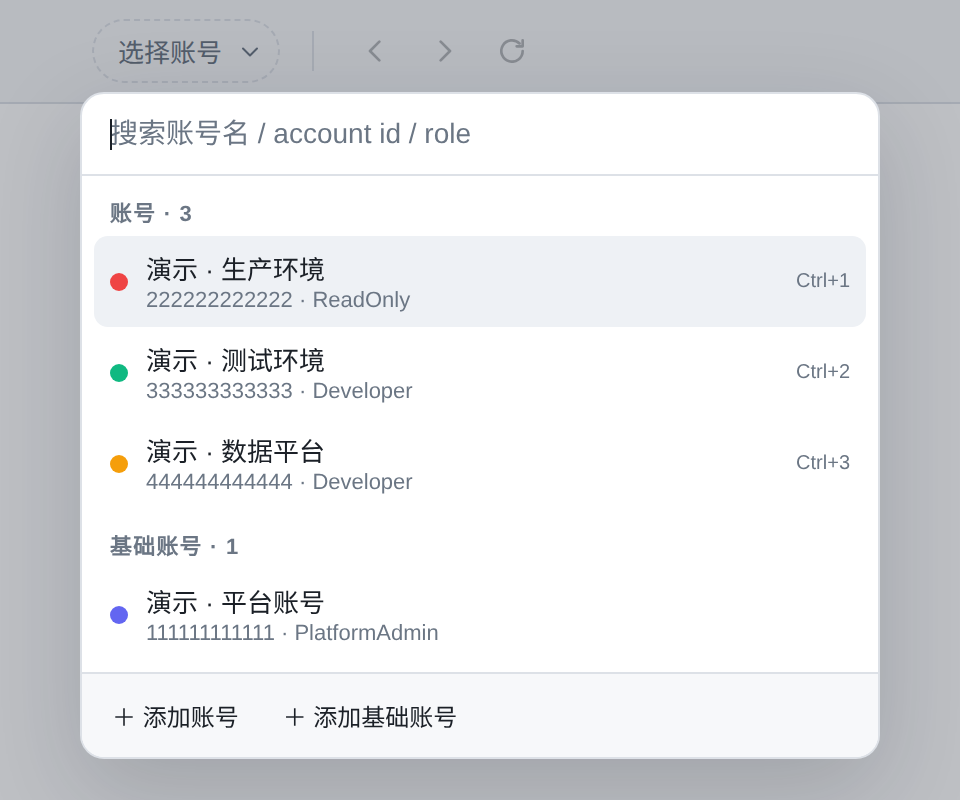
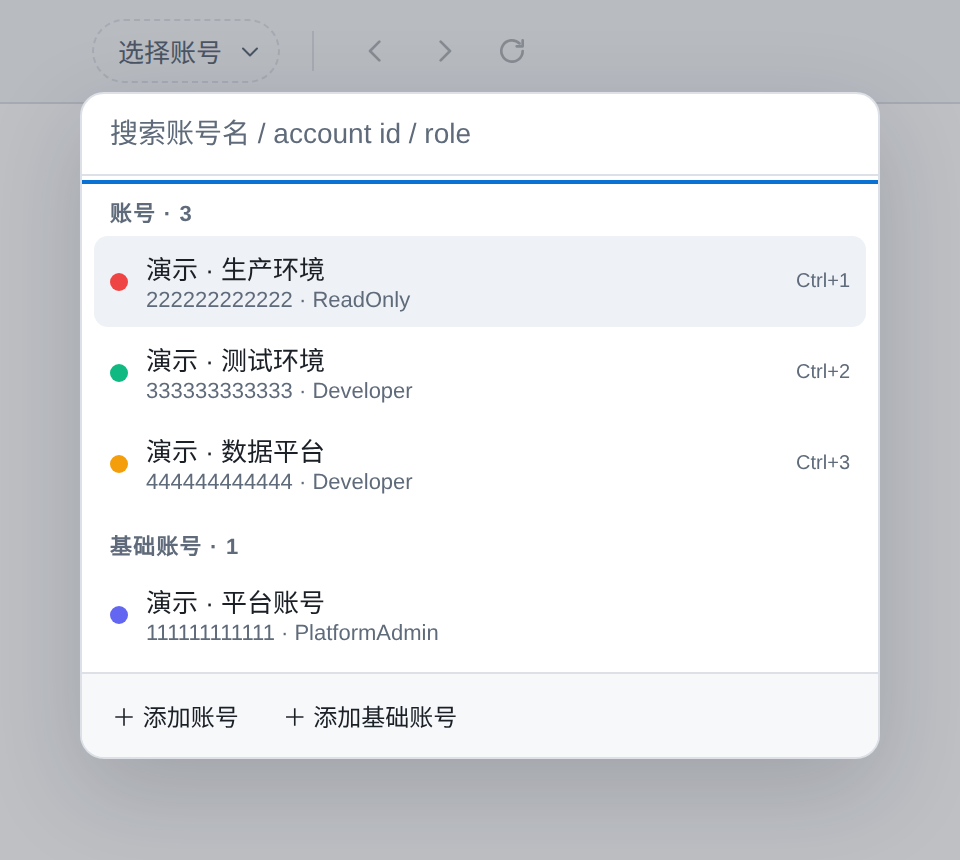
chore: open-source preparation — SECURITY/CONTRIBUTING/templates/CI, remove aws.dev from in-app domains, README refresh and screenshots

diff --git a/src/main/urls.test.ts b/src/main/urls.test.ts
@@ -1,5 +1,12 @@
 import { describe, expect, it } from 'vitest'
-import { isConsoleUrl, isSignInUrl, windowOpenAction, consoleRegion } from './urls'
+import { isConsoleUrl, isInAppUrl, isSignInUrl, windowOpenAction, consoleRegion } from './urls'
+
+describe('isInAppUrl', () => {
+  it('excludes aws.dev and its subdomains', () => {
+    expect(isInAppUrl('https://aws.dev/internal')).toBe(false)
+    expect(isInAppUrl('https://x.aws.dev/internal')).toBe(false)
+  })
+})
 
 describe('windowOpenAction', () => {
   it('keeps the URL-less auth-flow open as a real popup', () => {
@@ -15,6 +22,8 @@ describe('windowOpenAction', () => {
 
   it('sends other web URLs to the system browser', () => {
     expect(windowOpenAction('https://github.com/x')).toBe('external')
+    expect(windowOpenAction('https://aws.dev/internal')).toBe('external')
+    expect(windowOpenAction('https://x.aws.dev/internal')).toBe('external')
     // Anyone can host pages on amazonaws.com, and http is never in-app.
     expect(windowOpenAction('https://evil.s3.amazonaws.com/x')).toBe('external')
     expect(windowOpenAction('http://console.aws.amazon.com/')).toBe('external')

diff --git a/src/main/urls.ts b/src/main/urls.ts
@@ -7,8 +7,7 @@ const IN_APP_DOMAINS = [
   // Not amazonaws.com: anyone can host pages there (S3, ELB, API Gateway).
   'amazonaws.cn',
   'awsapps.com',
-  'awsstatic.com',
-  'aws.dev'
+  'awsstatic.com'
 ]
 
 export function isInAppUrl(url: string): boolean {

diff --git a/docs/DEVELOPMENT.md b/docs/DEVELOPMENT.md
@@ -17,7 +17,7 @@
 - **账号切换器** — 顶栏最左的账号按钮（颜色点 + 名称，登录 / 加载中显示 spinner）或 `⌘⇧A` 打开 `AccountSwitcher.tsx` 下拉框：搜索框自动聚焦，用 `shared/fuzzy.ts` 匹配名称 / account id / role，有查询时组内按分数排序；「账号」「基础账号」两组，每行显示颜色点、名称、`accountId · role`、`⌘1-9` 提示（规则同快捷键：优先跳转账号，没有时是基础账号），悬停出 ✎ / ✕。底部是「＋ 添加账号」「＋ 添加基础账号」（走原来的 `AccountModal`）和当前账号的「重新登录」。下拉框和 ⌘K 面板互斥。没有账号时欢迎页按步骤引导添加；有账号但没选时欢迎页有「选择账号」按钮。
 - **底部最近访问条** — 固定项和最近访问在 console 下方的一行 30px 条里（`ResourceList.tsx` 的 `ResourceStrip`）：固定项（★）在前，细分隔线后是最近访问（新的在前）。每个条目是服务缩写 + 名称（过长截断）+ 账号颜色点，悬停提示完整名称 / 账号 / region / 类型 / 时间；悬停时 ★ / ✕ 按钮盖在条目尾部，不改变尺寸。条目横向滚动：滚动条隐藏，竖向滚轮转成横向，触控板横滑原生可用，两端有渐隐遮罩，溢出时显示左右翻页按钮。最前面的 ▾ 按钮或 `⌘J` 隐藏整条（存 `localStorage` 的 `recentsHidden`），隐藏后用顶栏的时钟按钮或 `⌘J` 恢复。没有记录时条里只剩 ▾ 按钮。条内不做过滤，⌘K 本来就能搜最近访问。
 - **⌘F 页内搜索** — 走 Chromium 自己的 `findInPage`，实时高亮、显示第几个 / 共几个，`↵` / `⇧↵` 上下跳，`esc` 关闭（焦点在搜索框或 console 页面里都行）。搜索条排在 console view 上方而不是浮在它上面（原生 view 画在 DOM 之上，浮层会被盖掉）。
-- **每账号标签页** — 顶栏里有标签栏，每个标签页是一个独立的 `WebContentsView`，同一账号的标签页共用该账号的 session 分区（同一个登录）。`target="_blank"` 链接和带 URL 的 `window.open` 指向 Amazon / AWS 域名时在新标签页打开并切过去（⌘/中键点击这类后台打开不切），其他 http/https 域名交给系统浏览器，其他协议一律丢弃。每个标签页各自有前进/后退/刷新/页内搜索，标题来自页面 title；切换账号时显示那个账号自己的标签页。只有不带 URL / `about:blank` 的 `window.open` 仍开真窗口，那是登录流程先拿 handle 再导航的写法，拦掉会让登录窗口凭空消失。
+- **每账号标签页** — 顶栏里有标签栏，每个标签页是一个独立的 `WebContentsView`，同一账号的标签页共用该账号的 session 分区（同一个登录）。域名列表只决定新窗口链接的去向：`target="_blank"` 链接和带 URL 的 `window.open` 指向 HTTPS 的 `amazon.com`、`amazonaws.cn`、`awsapps.com`、`awsstatic.com` 及其子域名时在新标签页打开并切过去（⌘/中键点击这类后台打开不切），其他 http/https 域名交给系统浏览器，其他协议一律丢弃；`ai:open-link` 的非 Console 链接也按此列表决定去向。已有标签页的页内导航不受此列表限制，登录流程可跳转到其他网站。每个标签页各自有前进/后退/刷新/页内搜索，标题来自页面 title；切换账号时显示那个账号自己的标签页。只有不带 URL / `about:blank` 的 `window.open` 仍开真窗口，那是登录流程先拿 handle 再导航的写法，拦掉会让登录窗口凭空消失。
 - **AI 助手（只读，M1）** — 顶栏最右的 `✦ AI` 或 `⌘I` 打开右侧面板，和 console 并排（console 变窄）。Agent 跑在主进程（pi SDK），工具只有查询，用当前账号已有的凭证管线调 AWS。详见下文「AI 助手」。
 - **会话自动续期** — console 会话快到期（提前 10 分钟）时，对最近 4 小时内用过的账号在后台重新跑一次联邦登录：登录在一个不显示的 view 里完成，新 cookie 写进同一个 session 分区，可见的标签页留在原页面不动。续期失败会每 3 分钟重试，直到会话真正过期，之后走原来的流程：某个标签页被踢到登录页时自动重新联邦，并回到该标签页最后访问的 console 页面；同账号其他停在登录页的标签页在登录完成后（或切到它们时）也会回到各自的页面。
 
@@ -179,7 +179,7 @@ src/
 - `ai-keys.json` — LLM API key 的 safeStorage 密文（base64，按 provider），只在「加密保存」且 safeStorage 可信时写
 - `ai.sqlite`（及 `-wal` / `-shm`）— AI 对话（完整的 pi 消息，含已脱敏、已裁剪的工具结果）和审计日志
 
-**凭证只存在内存里**，缓存到过期前 5 分钟为止，从不落盘。基础账号的缓存条目记着生成它的命令，改了命令就不再命中；保存时账号的 account id / role / via / 命令任一变化都会丢掉该账号的 view、cookie 和缓存。
+**凭证命令输出的临时密钥只存在内存里**，缓存到过期前 5 分钟为止，从不落盘。Console 登录 cookie 等会话数据保存在每个账号的持久分区里；删除账号或保存时改变 account id / role / via / 命令会清除该账号的 view、分区数据和凭证缓存。手动重新登录不会主动清空分区。基础账号的缓存条目记着生成它的命令，改了命令就不再命中。
 
 ### 凭证命令
 
@@ -325,7 +325,7 @@ tier B 的读（`aws_read`）在 `ApprovalStore.request` 上**暂停**：
 
 ### 发给 LLM 服务商的内容
 
-system prompt（账号名、12 位 account id、role 名、账号类型、region、时间，当前页面的去令牌 URL、标题和识别出的资源）、`read_current_page` 的页面文字（脱敏、≤ 8 KB，可关闭）、用户消息、模型自己的回复，以及工具结果：资源名和 id、标签、配置字段、指标数值、日志行（Logs Insights 查询结果）、成本数字。已脱敏：上面列出的键、环境变量值、凭证 / key 形态的字符串。**不发**：AWS 凭证、LLM API key、凭证命令、其他账号的任何东西（会话按账号隔离）。模型目录里的价格是内置的，应用不调用 pi 的 `models.refresh()`，也没有遥测（见 M0 报告）。
+system prompt（账号名、12 位 account id、role 名、账号类型、region、时间，当前页面的去令牌 URL、标题和识别出的资源）、`@` 引用的资源、`read_current_page` 的页面文字（脱敏、≤ 8 KB，可关闭）、用户消息、模型自己的回复，以及工具结果：资源名和 id、标签、配置字段、指标数值、日志行（Logs Insights 查询结果）、成本数字。已脱敏：上面列出的键、环境变量值、凭证 / key 形态的字符串。**不发**：AWS 凭证、LLM API key、凭证命令、其他账号的任何东西（会话按账号隔离）。模型目录里的价格是内置的，应用不调用 pi 的 `models.refresh()`，也没有遥测（见 M0 报告）。
 
 ### IPC（`ai/ipc.ts`，固定列表，只接受主窗口 `webContents` 的顶层 frame：`validate.ts` 的 `trustedSender`）
 
@@ -352,7 +352,7 @@ system prompt（账号名、12 位 account id、role 名、账号类型、region
 | `ai:abort` | `conversationId` | — |
 | `ai:rename` / `ai:delete` | `accountId, conversationId[, title]` | — |
 | `ai:clear` | `accountId` | — |
-| `ai:open-link` | `accountId, url` | console URL 走 `console:navigate` 同一条路径；其他 URL 按开窗策略（AWS 域名在该账号新标签页，其他 http(s) 交给系统浏览器，其他协议丢弃） |
+| `ai:open-link` | `accountId, url` | console URL 走 `console:navigate` 同一条路径；其他 URL 按开窗策略（`urls.ts` 的应用内域名在该账号新标签页，其他 http(s) 交给系统浏览器，其他协议丢弃） |
 | `ai:card-action` | `accountId, conversationId, cardId`（`c-` + 12 位 hex）`, actionId`（`[A-Za-z0-9_-]{1,32}`）`, rowId?`（可打印 ASCII ≤ 256）`, values?`（普通对象，≤ 20 个字段，值是 ≤ 1000 字的字符串 / 有限数字 / 布尔） | `{ ok: true }` / `{ ok: false, error }`；按存储的卡片校验，见「卡片」 |
 | `ai:proposal-confirm` | `accountId, conversationId, proposalId`（`p-` + 12 位 hex）`, typed?`（单行 ≤ 300 字，不能是对象） | `{ ok: true }`（执行完，结果见事件）/ `{ ok: false, error }`（被拒，提案多半还在等待）；**没有 params 参数**，多余参数不读 |
 | `ai:proposal-cancel` | `accountId, conversationId, proposalId` | 同上 |

diff --git a/README.md b/README.md
@@ -11,7 +11,7 @@
 - **多账号并行** — 每个账号独立登录状态，切换不用重新登录。没有侧栏：账号都在顶栏左上角的下拉列表里，Console 占满窗口宽度。
 - **⌘K 快速跳转** — 一个搜索框搜服务、账号和最近访问的资源。可以在查询里直接带 region 和账号，例如 `prod lambda tokyo`：在 prod 账号里打开东京区的 Lambda。
 - **最近访问与固定** — 在 Console 里打开的资源和页面会自动记录，常用的可以 ★ 固定。它们显示在窗口底部一条单行横向滚动的条里，尽量不占 Console 的高度；`⌘J` 可以整个隐藏。
-- **标签页** — 每个账号有自己的标签页；Console 里的 AWS 链接在新标签页打开，其他网站交给系统浏览器。
+- **标签页** — 每个账号有自己的标签页；打开新标签页的 AWS 链接留在应用内，指向其他网站的新窗口链接交给系统浏览器。
 - **页内搜索** — `⌘F` 查找当前页面内容。
 - **自动续期** — 会话快过期时在后台悄悄续上，不打断你正在看的页面；万一被踢出登录，重新登录后会回到原来的页面，而不是首页。
 - **EC2 名称显示** — `i-0abc…` 这类 id 自动换成 `Name` 标签。
@@ -33,6 +33,14 @@
 **需要你确认的调用** — 默认放行的只读查询之外，助手的调用会先弹出审批卡，由你决定是否执行。
 
 ![审批卡](docs/screenshots/ai-approval.png)
+
+**变更提案（两步确认）**
+
+![变更提案](docs/screenshots/ai-proposal.png)
+
+**深色主题（仅应用界面）**
+
+![深色主题](docs/screenshots/dark-theme.png)
 
 ## 安装
 
@@ -104,6 +112,8 @@ my-credential-helper --account {accountId} --role {role}
 - 空查询只显示最近访问和账号。
 
 ### AI 助手
+
+面板支持查询卡片与审批卡（可用键盘操作）；变更提案由系统卡片展示，需两步确认。输入框可用 `@` 引用当前页面或最近访问的资源；对话可搜索、置顶，运行时的新消息可排队，回答可重试或重新生成，已保存的提问可编辑重发。应用界面可切换深色主题，内嵌的 AWS Console 页面保持浅色。
 
 点顶栏最右边的「✦ AI」或按 `⌘I`，Console 右侧会让出一栏聊天面板。Console 只是变窄，不会被遮住；面板左边缘可以拖动调宽（320–640px）。
 
@@ -209,15 +219,19 @@ npm run ai-audit -- --json                    # 原始记录
 
 ## 隐私与安全
 
-- 凭证命令只在本机、用你自己的 shell 运行，等同于你在终端里手动执行它；应用不会把命令或它的输出发到任何地方。
-- 凭证只保存在内存，从不写入磁盘（凭证命令本身存在账号列表里）。
-- **AI 助手会把数据发给你选择的 LLM 服务商**：你的提问、账号名、account id、region、当前 Console 页面的地址（去掉令牌）和标题、助手读取的页面可见文字（脱敏后，可关闭），以及助手查到的资源名、标签、配置、日志、指标、成本等结果。AWS 凭证和 API key 不会发给模型。查询在本机用当前账号的凭证执行，结果先脱敏（密码、密钥、环境变量的值、启动脚本等）再发送。不想把这些数据交给第三方的话，可以用自建网关或本地模型（OpenAI 兼容端点）。用 AWS Bedrock 时，这些数据发到你自己 AWS 账号里所选 region 的 Bedrock，受该账号的 Bedrock 设置约束（例如是否开启了模型调用日志）；跨区域推理配置文件可能把请求路由到同一地理范围内的其他 region（`global.` 不限地理范围）。
+- 凭证命令只在本机、用你自己的 shell 运行；命令本身不会发给模型，输出的临时凭证用于 AWS STS、Console 联邦登录、应用执行的 AWS 查询和用户配置的 Bedrock 调用。
+- 凭证命令输出的临时密钥只保存在内存，不写入磁盘（凭证命令本身存在账号列表里）。每个账号的 `persist:account-<id>` 分区会在磁盘上保存 Console 登录 cookie 等会话数据；删除账号或修改登录身份时会清除该分区数据。手动重新登录会更新会话，不主动清空分区。
+- **AI 助手会把数据发给你选择的 LLM 服务商**：你的提问、账号名、account id、role 名、账号类型、region、时间、`@` 引用的资源、当前 Console 页面的地址（去掉令牌）和标题、助手读取的页面可见文字（脱敏后，可关闭），以及助手查到的资源名、标签、配置、日志、指标、成本等结果。AWS 凭证和 API key 不会发给模型。查询在本机用当前账号的凭证执行，结果先脱敏（密码、密钥、环境变量的值、启动脚本等）再发送。不想把这些数据交给第三方的话，可以用自建网关或本地模型（OpenAI 兼容端点）。用 AWS Bedrock 时，这些数据发到你自己 AWS 账号里所选 region 的 Bedrock，受该账号的 Bedrock 设置约束（例如是否开启了模型调用日志）；跨区域推理配置文件可能把请求路由到同一地理范围内的其他 region（`global.` 不限地理范围）。
 - AI 助手不能自己执行任何变更，也不能自己通过审批：默认放行之外的调用都停下来等你在卡片上决定，执行的是应用冻结并校验过（hash）的参数，助手改不了。资源名、标签、日志里藏着的「指令」最多能让助手**请求**一次调用或**提出**一个变更，卡片会把它的真实内容摆在你面前。以前「一律拒绝」的保证换成了「一律先问你」：审批卡和强确认卡是最后一道防线，请看清参数再点。
 - 助手的通用查询参数里带别的账号的 ARN、或者桶不属于这个账号时，一定会先问你（不能「一直允许」），因为这种请求会出现在对方能看到的日志里。
 - LLM API key 默认经系统钥匙串加密后存盘（`ai-keys.json`，只有密文），也可以选仅内存或密钥命令。AI 对话记录和审计存在本机的 `ai.sqlite`，写入前会去掉凭证、API key 和密码形态的字符串；删除账号时它的对话一起删除。保留期和一键删除见上面的「数据与保留」。
-- 应用自己的界面（渲染进程）是信任边界：确认和审批按钮只把提案 / 审批 id、你的选择和你输入的文字发给主进程，主进程重新检查一切再执行；但如果界面本身被攻破（例如 XSS），攻击者能做到你能点的一切。界面有严格的 CSP，不加载远程脚本。
+- 应用自己的界面（渲染进程）是信任边界：确认和审批按钮只把提案 / 审批 id、你的选择和你输入的文字发给主进程，主进程重新检查一切再执行；但如果界面本身被攻破（例如 XSS），攻击者能做到你能点的一切。生产构建对界面应用严格的 CSP，不加载远程脚本；开发服务器没有这条 CSP。
 - 所有数据（账号列表、最近访问、操作日志、AI 设置和对话）都存在本机 `~/Library/Application Support/aws-console-hub/`，不上报、无遥测。
-- 外部链接只允许 http/https，Console 内页只允许 AWS 的域名（`amazon.com`、`aws.dev` 等）。
+- 新窗口链接（`window.open` / `target="_blank"`）和 AI 打开的非 Console 链接按域名决定去向：HTTPS 的 `amazon.com`、`amazonaws.cn`、`awsapps.com`、`awsstatic.com` 及其子域名在应用内开新标签页，其他 http/https 链接交给系统浏览器，其他协议丢弃；已有标签页可以随登录流程跳转到其他网站。AI 卡片中的 Console 链接还要求属于 `console.aws.amazon.com` 及其子域名。
+
+## 项目状态与免责声明
+
+本项目是独立客户端，不隶属 AWS 或 Amazon，也未获其认可；项目名称仅用于描述其用途。AWS 和 Amazon Web Services 是 Amazon.com, Inc. or its affiliates 的商标。请自行评估使用风险并检查所授予的 IAM 权限。macOS 打包后的实际运行尚未验证。
 
 ## 常见问题
 

diff --git a/SECURITY.md b/SECURITY.md
@@ -1,0 +1,17 @@
+# 安全政策
+
+## 支持版本
+
+仅维护最新 `main` 分支。请先确认问题在最新代码中仍可复现。
+
+## 私密报告
+
+请通过本仓库 GitHub 的 **Private vulnerability reporting / Security advisories** 私密提交漏洞，附上影响、复现步骤和必要的脱敏日志。不要用公开 issue 报告漏洞，也不要粘贴凭证或真实账号信息。
+
+维护者须在仓库设置中启用 GitHub Private vulnerability reporting。若私密报告入口不可用，请只开一个不含漏洞细节的 issue，请维护者提供私密联系方式。
+
+## 凭证与数据边界
+
+用户配置的凭证命令在本机 shell 中运行；输出的临时密钥用于 AWS STS、Console 联邦登录及应用执行的 AWS 查询（包括自动查询 EC2 名称），只留在内存，不写盘。每个账号的 `persist:account-<id>` 分区会在磁盘上保存 Console 登录 cookie 等会话数据；删除账号或修改登录身份时会清除该分区数据。手动重新登录会更新会话，不主动清空分区。应用没有遥测。具体数据流见 [README「隐私与安全」](README.md#隐私与安全)及 [开发文档「数据与凭证」](docs/DEVELOPMENT.md#数据与凭证)。
+
+内嵌 AWS Console 页面的内容和行为由 AWS 提供。AI 助手会把提问、上下文和脱敏后的工具结果发给用户配置的 LLM 服务商；见 [开发文档「AI 助手」](docs/DEVELOPMENT.md#ai-助手)。请检查该服务商的数据处理政策。

diff --git a/CONTRIBUTING.md b/CONTRIBUTING.md
@@ -1,0 +1,18 @@
+# 参与贡献
+
+需要 Node.js ≥ 22.19。克隆仓库后运行：
+
+```bash
+npm ci
+npm run dev
+npm test
+npm run typecheck
+npm run build
+npm run ai-smoke
+```
+
+提交 PR 前，请为行为变更补充测试，并运行 `npm test`、`npm run typecheck` 和 `npm run build`；AI 相关改动再运行 `npm run ai-smoke`。`ai-smoke` 使用本地假模型和断网守卫。真实 AWS 验证只在获授权的沙箱账号中进行；自动测试使用假凭证，不应使用开发机凭证创建 Console 会话。
+
+PR 必须保持 AI 安全模型：普通模型卡片只能回复或打开链接，审批和变更确认只能在应用生成的系统卡片上完成；变更须经过两步确认。细节见 [开发文档](docs/DEVELOPMENT.md)和 [审批设计记录](docs/plans/ai-approval.md)。
+
+提交信息请用简短的动词开头，说明改动内容；PR 描述写明原因、验证方式和未验证的部分。不要提交凭证、真实账号 ID 或含敏感数据的日志。

diff --git a/.github/PULL_REQUEST_TEMPLATE.md b/.github/PULL_REQUEST_TEMPLATE.md
@@ -1,0 +1,15 @@
+## 改动与原因
+
+## 验证
+
+- [ ] `npm test`
+- [ ] `npm run typecheck`
+- [ ] `npm run build`
+- [ ] AI 相关：`npm run ai-smoke`
+
+## 安全与数据
+
+- [ ] AI 审批和变更确认仍只在系统卡片完成；需要时已核对 [开发文档](https://github.com/domechn/aws-console-hub/blob/main/docs/DEVELOPMENT.md)与[审批设计](https://github.com/domechn/aws-console-hub/blob/main/docs/plans/ai-approval.md)。
+- [ ] 文档、截图和日志不含凭证、真实账号 ID 或内部网址。
+
+**未验证的部分**

diff --git a/.github/ISSUE_TEMPLATE/bug_report.md b/.github/ISSUE_TEMPLATE/bug_report.md
@@ -1,0 +1,19 @@
+---
+name: Bug 报告
+about: 报告可公开讨论的问题
+title: ""
+labels: bug
+assignees: ""
+---
+
+> 请勿粘贴凭证、账号 ID、令牌或未脱敏的日志。安全漏洞请按 [SECURITY.md](https://github.com/domechn/aws-console-hub/blob/main/SECURITY.md) 私密报告。
+
+**问题描述**
+
+**复现步骤**
+
+**预期与实际结果**
+
+**环境**（操作系统、Node.js 版本、应用版本）
+
+**已做的验证**

diff --git a/.github/ISSUE_TEMPLATE/feature_request.md b/.github/ISSUE_TEMPLATE/feature_request.md
@@ -1,0 +1,15 @@
+---
+name: 功能建议
+about: 提议一个改进
+title: ""
+labels: enhancement
+assignees: ""
+---
+
+> 请勿粘贴凭证、账号 ID 或内部网址。
+
+**要解决的问题**
+
+**建议的使用方式**
+
+**其他考虑**
